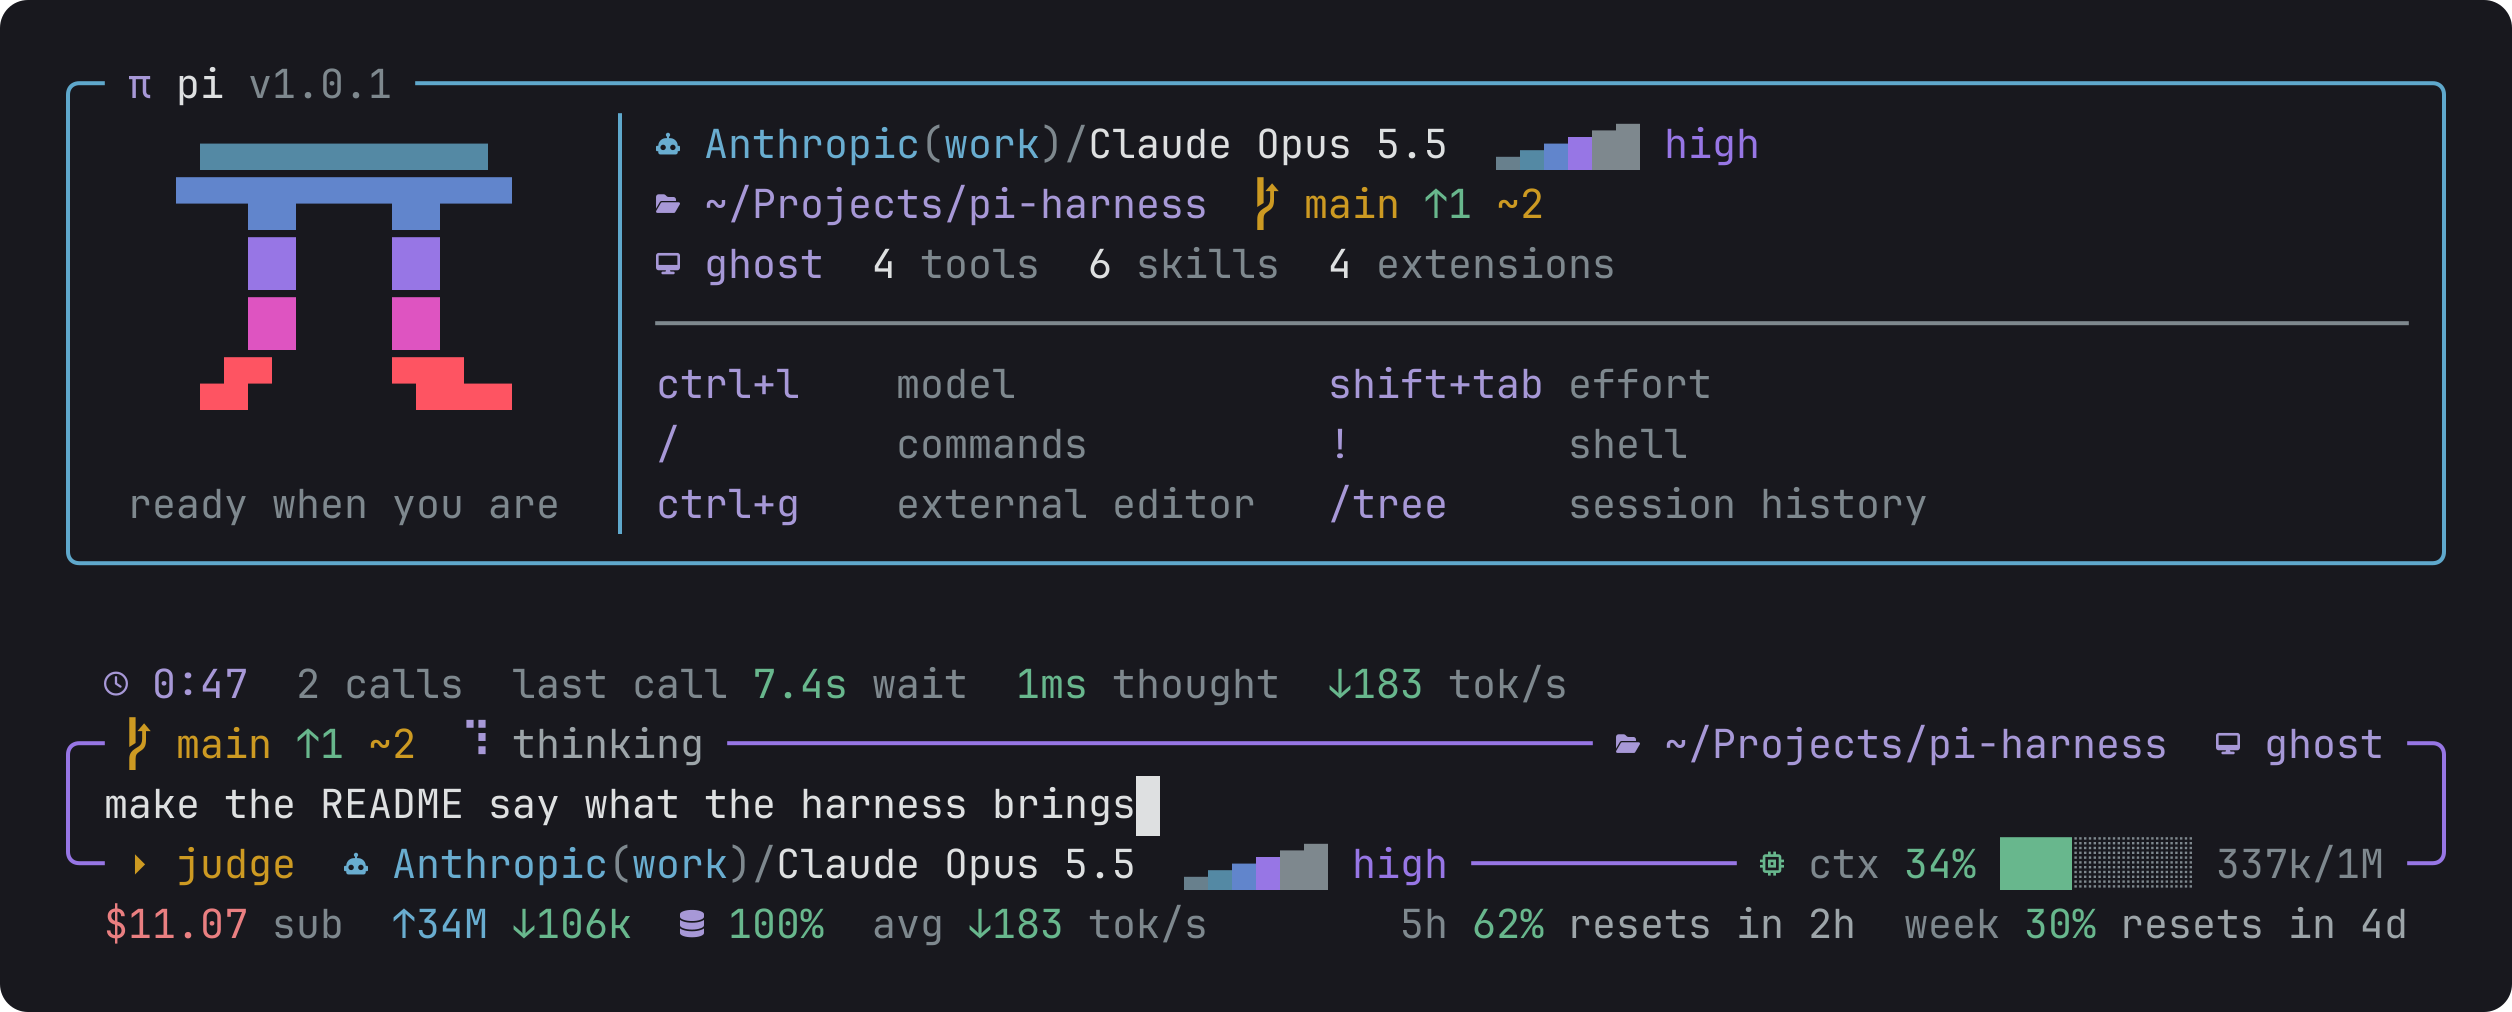
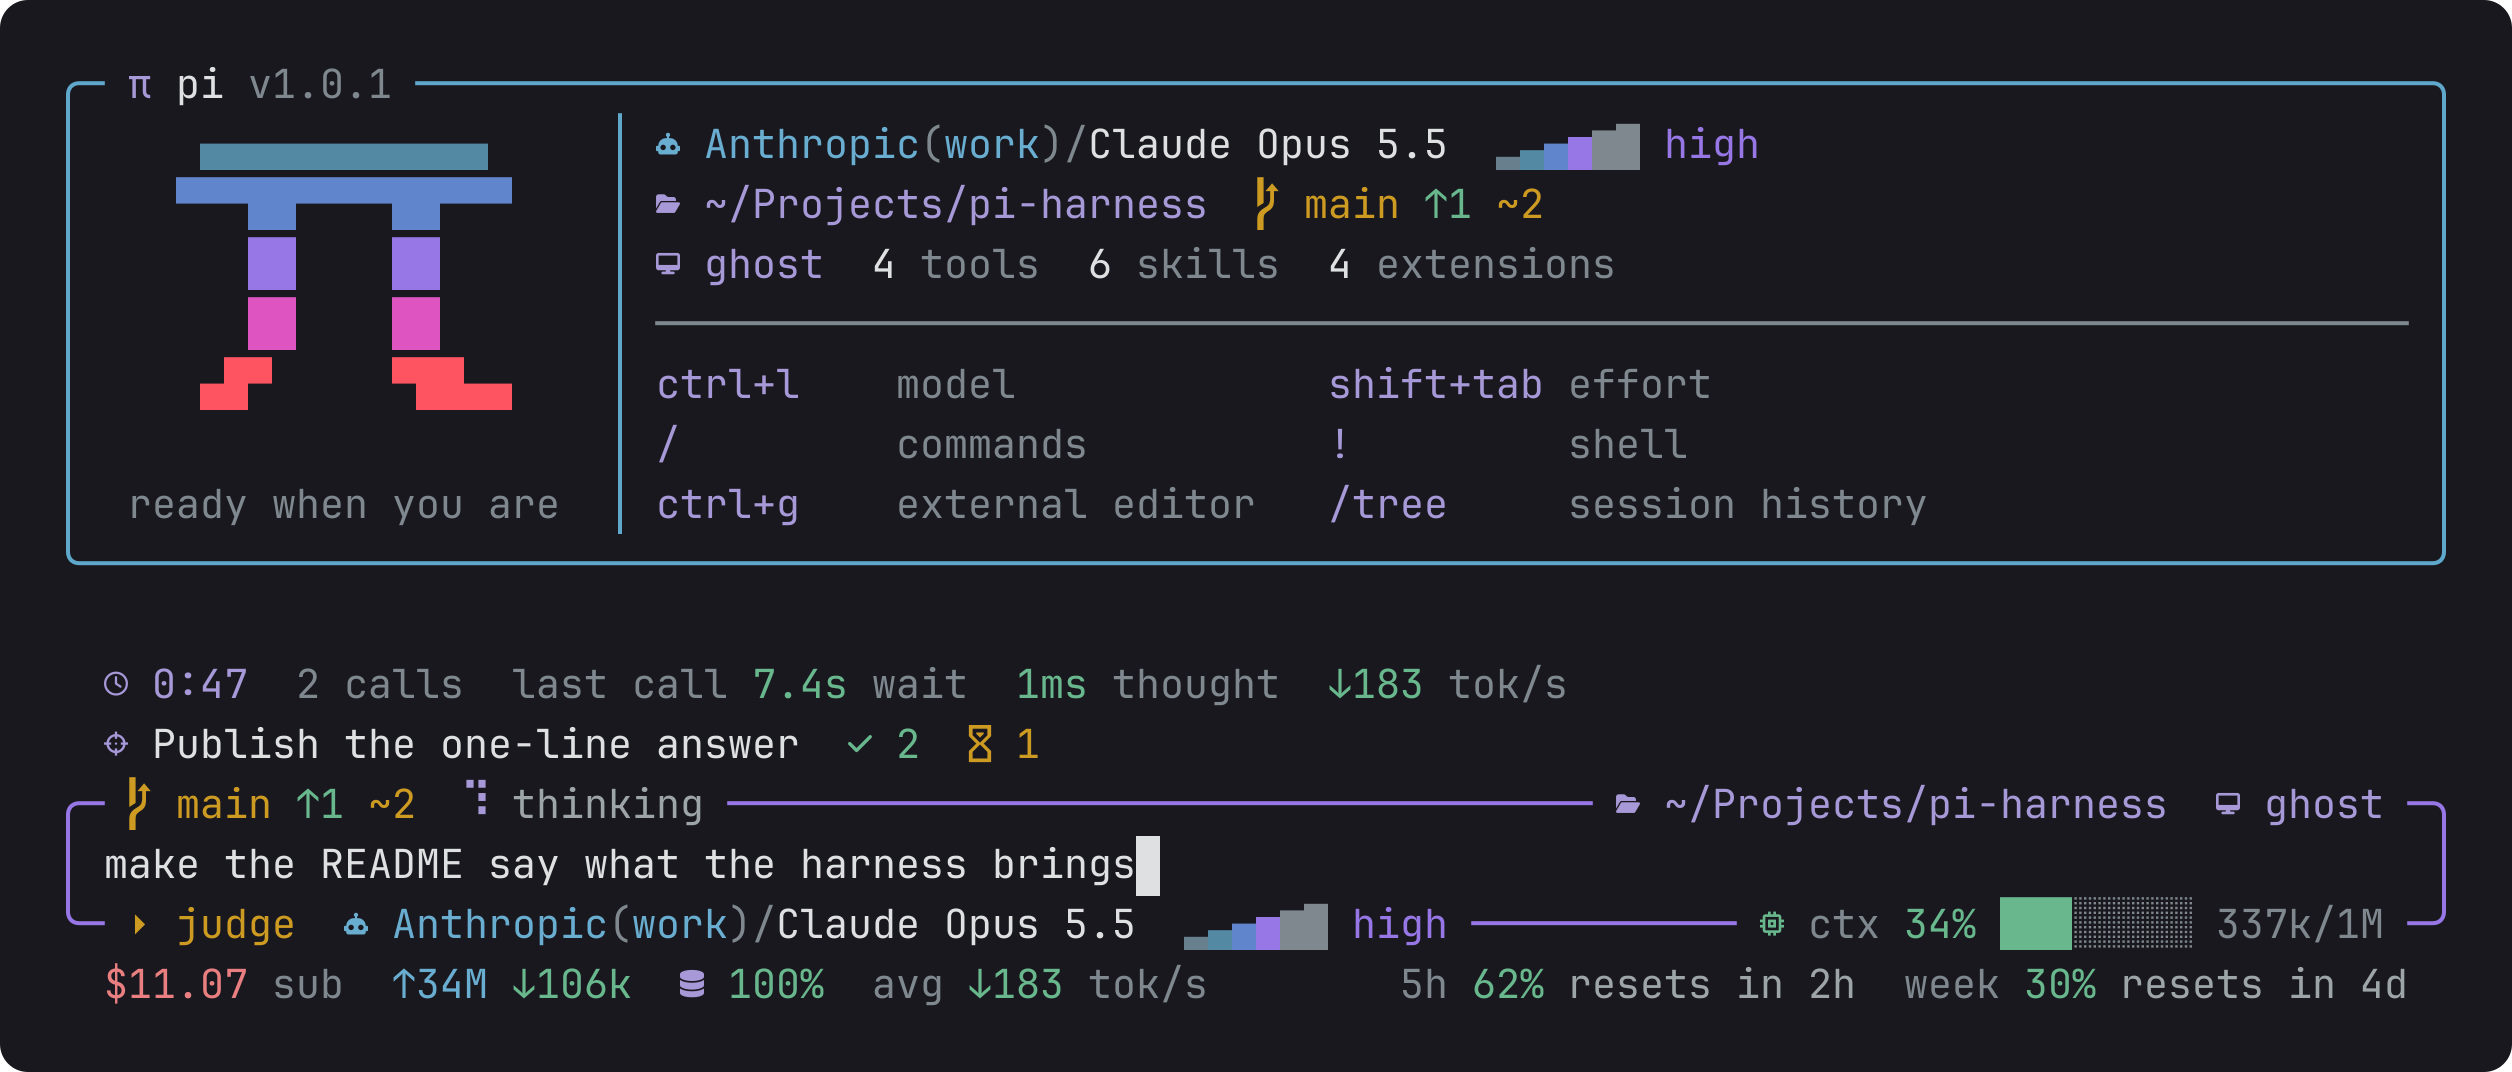
docs: show the goal's timeline on Alt+G and the step on the look's strip

diff --git a/scripts/docs/goal.ts b/scripts/docs/goal.ts
@@ -1,0 +1,97 @@
+// The goal's pictures, built by applying the operations the goal's model sends, so they show
+// what the package keeps.
+import type { Theme } from "@earendil-works/pi-coding-agent";
+
+import { TimelineView } from "../../packages/goal/src/view.ts";
+import {
+	applyGoalOps,
+	emptyGoal,
+	type GoalOp,
+	type SessionGoal,
+} from "../../packages/kit/src/index.ts";
+import { KEYS, WIDTH } from "./drive.ts";
+
+const MINUTE = 60_000;
+/** 14:00 on the clock the pictures read. */
+const START = Date.UTC(2026, 9, 6, 14, 0);
+
+/** The minute a change happened, and the operations sent then. */
+type Step = [minute: number, ops: GoalOp[]];
+
+/** The session the Alt+G picture shows. */
+const TIMELINE: Step[] = [
+	[0, [{ op: "goal", text: "Make the goal timeline trustworthy" }]],
+	[0, [{ op: "start", text: "Add the goal to the roadmap" }]],
+	[6, [{ op: "done", id: "g1" }]],
+	[7, [{ op: "start", text: "Measure the timeline against real sessions" }]],
+	[24, [{ op: "done", id: "g2" }]],
+	[25, [{ op: "start", text: "Start a step at the message that asked for it" }]],
+	[33, [{ op: "done", id: "g3" }]],
+	[34, [{ op: "start", text: "Read a named skill as the ask it is" }]],
+	[41, [{ op: "done", id: "g4", note: "a skill without a description still reads as a command" }]],
+	[
+		42,
+		[
+			{
+				op: "later",
+				text: "Frame the user's message",
+				note: "pi has no hook for it yet",
+			},
+		],
+	],
+	[43, [{ op: "start", text: "Check every close against the session's words" }]],
+	[
+		52,
+		[
+			{
+				op: "later",
+				text: "Let the agent's work open a step on your words",
+				note: 'measure the "what\'s next?" case first: the model may copy the question as proof',
+			},
+		],
+	],
+];
+
+/** The session the look's pictures show: a fix made, and now being published. */
+const SHIPPING: Step[] = [
+	[0, [{ op: "goal", text: "Keep the answer on one line" }]],
+	[0, [{ op: "start", text: "Find where the answer wraps" }]],
+	[9, [{ op: "done", id: "g1" }]],
+	[10, [{ op: "start", text: "Keep the answer on one line" }]],
+	[31, [{ op: "done", id: "g2" }]],
+	[32, [{ op: "later", text: "Say in the README how the answer fits", note: "after the release" }]],
+	[33, [{ op: "start", text: "Publish the one-line answer" }]],
+];
+
+function played(steps: readonly Step[]): SessionGoal {
+	let state: SessionGoal = { ...emptyGoal(), updatedAt: START };
+	for (const [minute, ops] of steps)
+		state = applyGoalOps(state, ops, { at: START + minute * MINUTE, source: "you" });
+	return state;
+}
+
+/** The goal on the look's strip. */
+export function shippingGoal(): SessionGoal {
+	return played(SHIPPING);
+}
+
+/** Hours and minutes in UTC, so the picture is the same on every machine. */
+function clock(at: number): string {
+	return new Date(at).toISOString().slice(11, 16);
+}
+
+/** `Alt+G` open, with the cursor moved to the first item that waits. */
+export function goalTimeline(theme: Theme): string[] {
+	const state = played(TIMELINE);
+	const view = new TimelineView({
+		theme,
+		state: () => state,
+		spent: () => ({ cost: 0.041, calls: 19 }),
+		rows: () => 30,
+		close: () => {},
+		requestRender: () => {},
+		clock,
+	});
+	view.handleInput(KEYS.down);
+	return view.render(WIDTH);
+}

diff --git a/packages/goal/src/view.ts b/packages/goal/src/view.ts
@@ -23,7 +23,11 @@ export interface TimelineViewOptions {
 	rows: () => number;
 	close: () => void;
 	requestRender: () => void;
+	/** How a time reads. The local clock by default; the docs pin it, so a picture never moves. */
+	clock?: Clock;
 }
+
+type Clock = (at: number) => string;
 
 type Tint = "accent" | "warning" | "success" | "dim" | "muted" | "text";
 
@@ -39,6 +43,7 @@ const DETAIL_LINES = 3;
 
 export class TimelineView implements Component {
 	readonly #options: TimelineViewOptions;
+	readonly #clock: Clock;
 	#selected: string | undefined;
 	#offset = 0;
 	#dropped = false;
@@ -47,6 +52,7 @@ export class TimelineView implements Component {
 
 	constructor(options: TimelineViewOptions) {
 		this.#options = options;
+		this.#clock = options.clock ?? localClock;
 	}
 
 	handleInput(data: string): void {
@@ -126,7 +132,7 @@ export class TimelineView implements Component {
 			lines.push(...wrapTextWithAnsi(theme.fg("text", item.text), width));
 			const note = item.note === undefined ? [] : wrapTextWithAnsi(item.note, width);
 			lines.push(...note.map((line) => theme.fg("muted", line)));
-			const when = whenOf(item);
+			const when = whenOf(item, this.#clock);
 			if (when !== "" && lines.length < DETAIL_LINES) lines.push(theme.fg("dim", when));
 		}
 		const kept = lines.slice(0, DETAIL_LINES);
@@ -202,7 +208,7 @@ export class TimelineView implements Component {
 		const branch = on
 			? theme.fg("accent", `${POINTER}  `)
 			: theme.fg("border", last ? "\u2514\u2500 " : "\u251c\u2500 ");
-		const meta = timeOf(item);
+		const meta = timeOf(item, this.#clock);
 		const metaWidth = meta === "" ? 0 : visibleWidth(meta) + 2;
 		const closed = item.status === "done" || item.status === "dropped";
 		const ink: Tint = on || !closed ? "text" : "muted";
@@ -264,20 +270,20 @@ function finishedAt(item: GoalItem): number {
 	return item.finished?.at ?? item.updatedAt;
 }
 
-function timeOf(item: GoalItem): string {
+function timeOf(item: GoalItem, clock: Clock): string {
 	if (item.status === "now" && item.started !== undefined) return `since ${clock(item.started.at)}`;
 	if (item.status === "done" || item.status === "dropped")
 		return item.finished === undefined ? "" : clock(item.finished.at);
 	return "";
 }
 
-function whenOf(item: GoalItem): string {
+function whenOf(item: GoalItem, clock: Clock): string {
 	const started = item.started === undefined ? "" : `started ${clock(item.started.at)}`;
 	const finished = item.finished === undefined ? "" : `${item.status} ${clock(item.finished.at)}`;
 	return [started, finished].filter((part) => part !== "").join(", ");
 }
 
-function clock(at: number): string {
+function localClock(at: number): string {
 	return new Date(at).toLocaleTimeString([], { hour: "2-digit", minute: "2-digit" });
 }
 

diff --git a/scripts/docs/scenes.ts b/scripts/docs/scenes.ts
@@ -21,6 +21,7 @@ import {
 } from "../../packages/kit/src/index.ts";
 import { drawCalls, type CallSpec } from "./calls.ts";
 import { KEYS, openDialog, press, type, WIDTH } from "./drive.ts";
+import { goalTimeline } from "./goal.ts";
 import { drawLook, lookParts } from "./look.ts";
 import { assistantText, userMessage } from "./messages.ts";
 
@@ -306,13 +307,19 @@ export const SCENES: readonly Scene[] = [
 	{
 		name: "look/preview",
 		caption: "The start card, then a prompt halfway through its answer.",
-		alt: "Pi with the look: the start card, then the strip with the stopwatch and the last call, the framed editor with the branch, the model and the context, and below it the cost, the tokens, the cache and the average speeds.",
+		alt: "Pi with the look: the start card, then the strip with the stopwatch and the last call, the step under way with how many are done and wait, the framed editor with the branch, the model and the context, and below it the cost, the tokens, the cache and the average speeds.",
 		draw: drawLook,
+	},
+	{
+		name: "goal/timeline",
+		caption: "Alt+G: what is under way, what waits and why, and what was done.",
+		alt: "The goal's timeline over the chat: the goal as its title, the step under way, two items that wait with the cursor on one, four done items with the time each finished, and a pane with the selected item's note.",
+		draw: goalTimeline,
 	},
 	{
 		name: "harness/conversation",
 		caption: "A session: the start card, what you asked, what the model ran, and what it cost.",
-		alt: "A session with the look: the start card, a request, the model running the tests, a commit you denied, then the stopwatch, the editor and the cost.",
+		alt: "A session with the look: the start card, a request, the model running the tests, committing and pushing, then the stopwatch, the step under way, the editor and the cost.",
 		draw: conversation,
 	},
 ];

diff --git a/scripts/docs/look.ts b/scripts/docs/look.ts
@@ -35,6 +35,7 @@ import { LookEditor } from "../../packages/look/src/ui/editor.ts";
 import { FooterComponent, StripComponent } from "../../packages/look/src/ui/footer.ts";
 import { HeaderComponent } from "../../packages/look/src/ui/header.ts";
 import type { Screen, SlotName } from "../../packages/look/src/ui/screen.ts";
+import { shippingGoal } from "./goal.ts";
 
 const WIDTH = 100;
 
@@ -90,6 +91,7 @@ function snapshot(theme: Theme): Snapshot {
 			estimated: false,
 		},
 		averages: { decode: 183, prefill: 49_000 },
+		goal: shippingGoal(),
 		statuses: new Map([["pi-ask-permission:mode", theme.fg("warning", "\u23f5 judge")]]),
 	};
 }

diff --git a/packages/goal/README.md b/packages/goal/README.md
@@ -48,13 +48,23 @@ What the model may send depends on what it read:
 - After the agent's work, it can only finish a step or put a follow-up off. Only your messages start steps and set the goal, so when the agent proposes a plan, no step starts.
 - In the tidy pass, it only merges repeats, closes what the session finished and renames.
 
-To finish or give up a step, the model has to copy the words that show it, like `rodei o npm publish` or the agent saying it pushed. The extension looks for those words in the text the model read before it accepts the close, so a model that imagines a merge cannot record one. Each refused operation stays in the session entry under `rejected`.
+To finish or give up a step, the model has to copy the words that show it, like `rodei o npm publish` or the agent saying it pushed. The extension looks for those words in the text the model read before it accepts the close, so a model that imagines a merge cannot record one. A command the agent ran does not count, because the model never sees its output. A call that failed or that you refused reaches the model marked as one that did not happen. Each refused operation stays in the session entry under `rejected`.
 
 The model writes every item in the language of your messages, and the timeline records which language that is.
 
 To correct it, say what you want. "Leave the frame for later" moves the frame to later. `Alt+S` shows the timeline on the Goal tab, where you can edit the goal, the current step and the later list by hand.
 
 ## Where it shows
+
+<!-- docs:goal/timeline -->
+
+<p align="center">
+  <img src="https://raw.githubusercontent.com/felipeadeildo/pi-harness/main/packages/goal/assets/timeline.png" alt="The goal's timeline over the chat: the goal as its title, the step under way, two items that wait with the cursor on one, four done items with the time each finished, and a pane with the selected item's note." width="860">
+  <br>
+  <em>Alt+G: what is under way, what waits and why, and what was done.</em>
+</p>
+
+<!-- /docs -->
 
 `Alt+G` opens the whole timeline as a tree over the chat: what is under way, what waits and what was done, newest first, one line per item. The arrows move a cursor, and a pane at the bottom shows the item under it in full: its whole text, its note (why it waits, or what it left out) and when it started and finished. `d` shows the dropped items, and `Esc` closes it. It updates while open, and its size stays put while you move.
 

diff --git a/ROADMAP.md b/ROADMAP.md
@@ -152,11 +152,11 @@ Open:
 
 ## Many sessions, one policy
 
-| Item             | Status  | Needs         | Note                                                                                                      |
-| ---------------- | ------- | ------------- | --------------------------------------------------------------------------------------------------------- |
-| Sessions talking | planned | Session state | An inbox folder per session with one file per message, and `pi.events` inside one process. Nobody waits   |
-| Subagents        | later   |               | Replaces `pi-subagents`. Children over `RpcClient`, with their permission dialogs forwarded to the parent |
-| The routed model | later   | A router      | With a virtual model, the look shows the model that answered instead of `auto`                            |
+| Item             | Status  | Needs         | Note                                                                                                                               |
+| ---------------- | ------- | ------------- | ---------------------------------------------------------------------------------------------------------------------------------- |
+| Sessions talking | planned | Session state | An inbox folder per session with one file per message, and `pi.events` inside one process. Nobody waits                            |
+| Subagents        | later   |               | Replaces `pi-subagents`. Children over `RpcClient`, with their permission dialogs forwarded to the parent, on the parent's account |
+| The routed model | later   | A router      | With a virtual model, the look shows the model that answered instead of `auto`                                                     |
 
 ## The outside world
 

diff --git a/packages/look/README.md b/packages/look/README.md
@@ -15,7 +15,7 @@
 <!-- docs:look/preview -->
 
 <p align="center">
-  <img src="https://raw.githubusercontent.com/felipeadeildo/pi-harness/main/packages/look/assets/preview.png" alt="Pi with the look: the start card, then the strip with the stopwatch and the last call, the framed editor with the branch, the model and the context, and below it the cost, the tokens, the cache and the average speeds." width="860">
+  <img src="https://raw.githubusercontent.com/felipeadeildo/pi-harness/main/packages/look/assets/preview.png" alt="Pi with the look: the start card, then the strip with the stopwatch and the last call, the step under way with how many are done and wait, the framed editor with the branch, the model and the context, and below it the cost, the tokens, the cache and the average speeds." width="860">
   <br>
   <em>The start card, then a prompt halfway through its answer.</em>
 </p>

diff --git a/README.md b/README.md
@@ -17,7 +17,7 @@
 <!-- docs:harness/conversation -->
 
 <p align="center">
-  <img src="https://raw.githubusercontent.com/felipeadeildo/pi-harness/main/packages/harness/assets/conversation.png" alt="A session with the look: the start card, a request, the model running the tests, a commit you denied, then the stopwatch, the editor and the cost." width="860">
+  <img src="https://raw.githubusercontent.com/felipeadeildo/pi-harness/main/packages/harness/assets/conversation.png" alt="A session with the look: the start card, a request, the model running the tests, committing and pushing, then the stopwatch, the step under way, the editor and the cost." width="860">
   <br>
   <em>A session: the start card, what you asked, what the model ran, and what it cost.</em>
 </p>

diff --git a/packages/harness/README.md b/packages/harness/README.md
@@ -15,7 +15,7 @@
 <!-- docs:harness/conversation -->
 
 <p align="center">
-  <img src="https://raw.githubusercontent.com/felipeadeildo/pi-harness/main/packages/harness/assets/conversation.png" alt="A session with the look: the start card, a request, the model running the tests, a commit you denied, then the stopwatch, the editor and the cost." width="860">
+  <img src="https://raw.githubusercontent.com/felipeadeildo/pi-harness/main/packages/harness/assets/conversation.png" alt="A session with the look: the start card, a request, the model running the tests, committing and pushing, then the stopwatch, the step under way, the editor and the cost." width="860">
   <br>
   <em>A session: the start card, what you asked, what the model ran, and what it cost.</em>
 </p>
